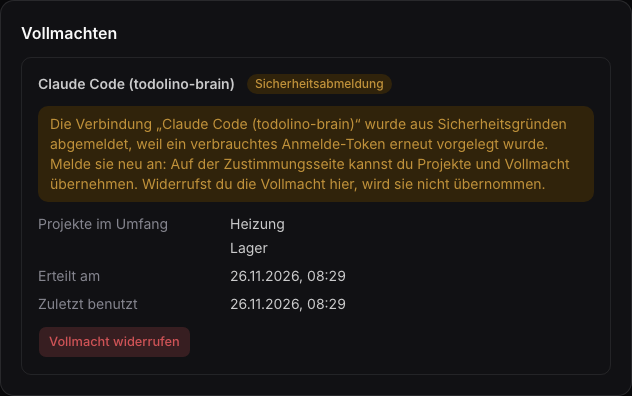
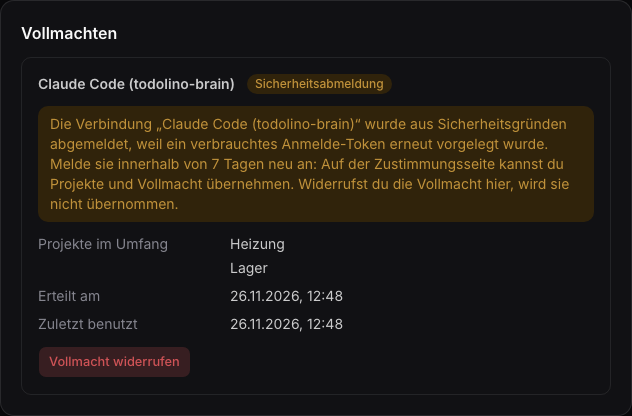
Karte BEF08998: Security-Review-Befunde behoben – Index und Schreiben per Primärschlüssel, Wiederholungsdeckel 5, Protokoll, 7-Tage-Angebot, kein Treffer beim Standardnamen, Vollmacht folgt der Auswahl (grün)
MariaDB 12.3: OAuth|BrainMandate|Connection|MariaDB|Migration 151 Tests, 1 übersprungen, 0 Fehler. SQLite gezielt 134 Tests, 5 übersprungen, 0 Fehler.
npm run check 0/0, vitest 799/799, build rc 0, Playwright mandate-relogin 7/7 in Chromium, Firefox, WebKit.
Handbuch 1.48.0, oauth-mcp.yaml 1.12.0, connections.yaml 1.7.0, ADR 0036 ergänzt.

diff --git a/Sources/TodoKit/OAuth/OAuthController.swift b/Sources/TodoKit/OAuth/OAuthController.swift
@@ -48,7 +48,7 @@ struct OAuthController: RouteCollection {
               b.token_endpoint_auth_method == nil || b.token_endpoint_auth_method == "none",
               Set(b.grant_types ?? ["authorization_code", "refresh_token"]).isSubset(of: ["authorization_code", "refresh_token"]),
               b.response_types == nil || b.response_types == ["code"] else { throw Abort(.badRequest, reason: "invalid_client_metadata") }
-        let c = OAuthClient(name: b.client_name ?? "MCP Client", redirects: b.redirect_uris)
+        let c = OAuthClient(name: b.client_name ?? OAuthClient.defaultName, redirects: b.redirect_uris)
         try await c.save(on: req.db)
         return try await JSONValue.object(["client_id": .string(try c.requireID().uuidString),
             "client_name": .string(c.name), "redirect_uris": .strings(c.redirects), "token_endpoint_auth_method": .string("none"),
@@ -230,40 +230,57 @@ struct OAuthController: RouteCollection {
         // Plain lookup first, then lock before the transaction's first read (see consent()).
         guard let found = try await OAuthSecret.query(on: req.db).filter(\.$hash == AuthSupport.hash(raw)).first(),
               let gid = found.grantID else { return try await tokenError(req) }
-        let result: JSONValue? = try await req.db.transaction { db in
-            try await lockRow(table: OAuthGrant.schema, id: gid, on: db)
-            guard let s = try await OAuthSecret.find(found.id, on: db),
-                  let g = try await OAuthGrant.find(gid, on: db), !g.revoked,
-                  g.clientID == b.client_id, g.resource == b.resource,
-                  s.kind == (b.grant_type == "authorization_code" ? "code" : "refresh") else { return nil }
-            // ADR 0036: a used secret revokes the connection unless it is the just rotated refresh token coming again.
-            let now = Date(), repeated = s.consumed
-            if repeated {
-                guard try await OAuthRotation.mayRepeat(s, now: now, on: db) else {
-                    g.revoke(.replay, now: now); try await g.save(on: db); return nil
+        // Protocol after the transaction, without any token value (ADR 0036, security review 26.11.2026).
+        let logger = req.application.logger
+        let outcome: (json: JSONValue?, repeated: Int?, replay: String?) = try await req.db.transaction { db in
+            var event: (repeated: Int?, replay: String?) = (nil, nil)
+            let json: JSONValue? = try await { () async throws -> JSONValue? in
+                try await lockRow(table: OAuthGrant.schema, id: gid, on: db)
+                guard let s = try await OAuthSecret.find(found.id, on: db),
+                      let g = try await OAuthGrant.find(gid, on: db), !g.revoked,
+                      g.clientID == b.client_id, g.resource == b.resource,
+                      s.kind == (b.grant_type == "authorization_code" ? "code" : "refresh") else { return nil }
+                // ADR 0036: a used secret revokes the connection unless it is the just rotated refresh token coming again.
+                let now = Date(), repeated = s.consumed
+                if repeated {
+                    switch try await OAuthRotation.judgeRepeat(s, now: now, on: db) {
+                    case .allowed(let n): event.repeated = n
+                    case .replay(let why):
+                        g.revoke(.replay, now: now); try await g.save(on: db)
+                        event.replay = why
+                        return nil
+                    }
                 }
-            }
-            guard s.expiresAt > now else { return nil }
-            if s.kind == "code" {
-                let a = try JSONDecoder().decode(Authorization.self, from: Data(s.payload.utf8))
-                guard let v = b.code_verifier, (43...128).contains(v.count),
-                      v.allSatisfy({ $0.isASCII && ($0.isLetter || $0.isNumber || "-._~".contains($0)) }),
-                      b.redirect_uri == a.redirect_uri,
-                      AuthSupport.constantTimeEquals(Data(SHA256.hash(data: Data(v.utf8))).base64EncodedString().replacingOccurrences(of: "+", with: "-").replacingOccurrences(of: "/", with: "_").replacingOccurrences(of: "=", with: ""), a.code_challenge)
-                else { return nil }
-            }
-            if let scope = b.scope, Set(scope.split(separator: " ").map(String.init)) != Set(g.scopes) { return nil }
-            if !repeated {
-                s.consumed = true; s.consumedAt = now; try await s.save(on: db)
-                try await OAuthRotation.retireSiblings(of: s, on: db)
-            }
-            let access = AuthSupport.randomToken(), refresh = AuthSupport.randomToken()
-            try await OAuthSecret(raw: access, kind: "access", grantID: gid, lifetime: 900).save(on: db)
-            let next = OAuthSecret(raw: refresh, kind: "refresh", grantID: gid, lifetime: 30 * 86400)
-            if s.kind == "refresh" { next.rotatedFrom = try s.requireID() }
-            try await next.save(on: db)
-            return .object(["access_token": .string(access), "refresh_token": .string(refresh), "token_type": .string("Bearer"),
-                            "expires_in": .number(900), "scope": .string(g.scopes.joined(separator: " "))])
+                guard s.expiresAt > now else { return nil }
+                if s.kind == "code" {
+                    let a = try JSONDecoder().decode(Authorization.self, from: Data(s.payload.utf8))
+                    guard let v = b.code_verifier, (43...128).contains(v.count),
+                          v.allSatisfy({ $0.isASCII && ($0.isLetter || $0.isNumber || "-._~".contains($0)) }),
+                          b.redirect_uri == a.redirect_uri,
+                          AuthSupport.constantTimeEquals(Data(SHA256.hash(data: Data(v.utf8))).base64EncodedString().replacingOccurrences(of: "+", with: "-").replacingOccurrences(of: "/", with: "_").replacingOccurrences(of: "=", with: ""), a.code_challenge)
+                    else { return nil }
+                }
+                if let scope = b.scope, Set(scope.split(separator: " ").map(String.init)) != Set(g.scopes) { return nil }
+                if !repeated {
+                    s.consumed = true; s.consumedAt = now; try await s.save(on: db)
+                    try await OAuthRotation.retireSiblings(of: s, on: db)
+                }
+                let access = AuthSupport.randomToken(), refresh = AuthSupport.randomToken()
+                try await OAuthSecret(raw: access, kind: "access", grantID: gid, lifetime: 900).save(on: db)
+                let next = OAuthSecret(raw: refresh, kind: "refresh", grantID: gid, lifetime: 30 * 86400)
+                if s.kind == "refresh" { next.rotatedFrom = try s.requireID() }
+                try await next.save(on: db)
+                return .object(["access_token": .string(access), "refresh_token": .string(refresh), "token_type": .string("Bearer"),
+                                "expires_in": .number(900), "scope": .string(g.scopes.joined(separator: " "))])
+            }()
+            return (json, event.repeated, event.replay)
+        }
+        let result = outcome.json, event = (repeated: outcome.repeated, replay: outcome.replay)
+        let meta: Logger.Metadata = ["grant": .string(gid.uuidString), "client": .string(b.client_id.uuidString), "secret": .string(found.id?.uuidString ?? "")]
+        if let why = event.replay {
+            logger.warning("oauth.replay_revoked", metadata: meta.merging(["reason": .string(why)]) { $1 })
+        } else if let n = event.repeated, result != nil {
+            logger.notice("oauth.refresh_repeated", metadata: meta.merging(["repeat": .stringConvertible(n), "max": .stringConvertible(OAuthRotation.maxRepeats)]) { $1 })
         }
         guard let result else { return try await tokenError(req) }
         let response = try await result.encodeResponse(for: req)

diff --git a/Sources/TodoKit/OAuth/OAuthTakeover.swift b/Sources/TodoKit/OAuth/OAuthTakeover.swift
@@ -13,7 +13,8 @@ enum OAuthTakeover {
     struct Candidate {
         let grant: OAuthGrant
         let match: Match
-        /// Projects of the old connection the person can read now.
+        /// What the consent page preselects: the projects of the old connection plus the mandate projects missing from that
+        /// list (so nothing of the mandate is lost or moves along unseen), each readable by the person now.
         let projects: [Project]
         /// The mandate of the old connection that the person has not revoked, limited to projects readable now.
         let mandate: BrainMandate?
@@ -26,13 +27,20 @@ enum OAuthTakeover {
     /// What the consent page showed; kept server side with the consent token, so a click never hands over more than that.
     struct Offer: Codable { var grantID: UUID; var mandateProjects: [UUID] }
 
+    /// A connection signed out by replay detection stays on offer this long after the revocation (security review 26.11.2026).
+    static let offerPeriod: TimeInterval = 7 * 86_400
+
     /// Only connections that are alive or were ended by replay detection qualify. Revoked by the person, replaced, locked
     /// account or an unknown cause never do. Several matches mean: nothing.
-    static func find(user: User, client: OAuthClient, redirect: String, resource: String, on db: any Database) async throws -> Found {
+    static func find(user: User, client: OAuthClient, redirect: String, resource: String, now: Date = Date(), on db: any Database) async throws -> Found {
         guard !user.isLocked else { return .none }
         let userID = try user.requireID(), clientID = try client.requireID()
         let grants = try await OAuthGrant.query(on: db).filter(\.$userID == userID).filter(\.$resource == resource).all()
-            .filter { !$0.revoked || $0.revokedReason == OAuthRevocation.replay.rawValue }
+            .filter { g in
+                guard g.revoked else { return true }
+                guard g.revokedReason == OAuthRevocation.replay.rawValue, let at = g.revokedAt else { return false }
+                return now.timeIntervalSince(at) <= offerPeriod
+            }
         guard !grants.isEmpty else { return .none }
         let clients = Dictionary(uniqueKeysWithValues: try await OAuthClient.query(on: db).filter(\.$id ~~ Set(grants.map(\.clientID))).all()
             .compactMap { c in c.id.map { ($0, c) } })
@@ -41,18 +49,19 @@ enum OAuthTakeover {
         let mandates = try await BrainMandate.query(on: db).filter(\.$userID == userID).filter(\.$revokedAt == .null).all()
 
         func candidate(_ grant: OAuthGrant, _ match: Match) -> Candidate? {
-            let projects = grant.projects.compactMap { readable[$0] }
             let mandate = mandates.first { $0.grantID == grant.id }
             // By name: the consent page lists these as text.
             let covered = (mandate?.projects ?? []).compactMap { readable[$0] }.sorted { $0.name.lowercased() < $1.name.lowercased() }
+            let listed = Set(grant.projects)
+            let projects = grant.projects.compactMap { readable[$0] } + covered.filter { $0.id.map { !listed.contains($0) } ?? false }
             guard !projects.isEmpty || !covered.isEmpty else { return nil }
             return Candidate(grant: grant, match: match, projects: projects, mandate: covered.isEmpty ? nil : mandate,
                              mandateProjects: covered, name: ConnectionNames.display(grant, clientName: clients[grant.clientID]?.name))
         }
         var matches = grants.filter { $0.clientID == clientID }.compactMap { candidate($0, .client) }
         // By name: client names are free to choose in open registration, so only between loopback clients and only for a
-        // connection that is dead anyway (never replacing a working one).
-        if matches.isEmpty, isLoopback(redirect) {
+        // connection that is dead anyway (never replacing a working one). The name every unnamed client gets proves nothing.
+        if matches.isEmpty, isLoopback(redirect), isDistinctive(client.name) {
             matches = grants.filter { grant in
                 guard grant.revoked, let old = clients[grant.clientID], old.name == client.name else { return false }
                 return !old.redirects.isEmpty && old.redirects.allSatisfy(isLoopback)
@@ -60,6 +69,11 @@ enum OAuthTakeover {
         }
         guard let first = matches.first else { return .none }
         return matches.count == 1 ? .one(first) : .ambiguous
+    }
+
+    static func isDistinctive(_ clientName: String) -> Bool {
+        let name = clientName.trimmingCharacters(in: .whitespacesAndNewlines)
+        return !name.isEmpty && name.caseInsensitiveCompare(OAuthClient.defaultName) != .orderedSame
     }
 
     static func isLoopback(_ redirect: String) -> Bool {
@@ -75,9 +89,9 @@ enum OAuthTakeover {
         old.revoke(.superseded, now: now); try await old.save(on: db)
 
         let chosen = Set(new.projects)
-        // A project the person unchecked leaves the mandate as well.
-        let unchecked = Set(old.projects).subtracting(chosen)
-        let carried = Set(candidate.mandateProjects.compactMap(\.id)).intersection(offer.mandateProjects).subtracting(unchecked)
+        // Only what the person confirmed in the project list keeps the mandate (also mandate projects that were not in the
+        // old list: the page preselects them, unchecking them drops them).
+        let carried = Set(candidate.mandateProjects.compactMap(\.id)).intersection(offer.mandateProjects).intersection(chosen)
             .sorted { $0.uuidString < $1.uuidString }
         var mandateID: UUID?
         if !carried.isEmpty {
@@ -86,7 +100,9 @@ enum OAuthTakeover {
             mandateID = try mandate.requireID()
         }
         let note = "Bei der Neuanmeldung auf der Zustimmungsseite bestätigt: Übernahme von „\(candidate.name)“."
-        let accessOnly = chosen.intersection(old.projects).subtracting(carried).sorted { $0.uuidString < $1.uuidString }
+        var accessOnly = chosen.intersection(old.projects).subtracting(carried).sorted { $0.uuidString < $1.uuidString }
+        // Nothing in common: still one row, naming the earlier connection where a project would stand.
+        if carried.isEmpty, accessOnly.isEmpty { accessOnly = [oldID] }
         for (kind, projects) in [("mandate.taken_over", carried), ("connection.taken_over", accessOnly)] {
             for projectID in projects {
                 let row = BrainConnectionAudit()

diff --git a/Sources/TodoKit/OAuth/OAuthRotation.swift b/Sources/TodoKit/OAuth/OAuthRotation.swift
@@ -5,23 +5,44 @@ import Foundation
 /// token store not written, two processes sharing one sign-in) sends the previous token again; that is not treated as theft
 /// as long as nobody has used any of its successors. Everything else stays a replay and revokes the whole connection
 /// (RFC 9700, section 4.14.2). All calls run under the row lock of the grant.
+///
+/// MariaDB: every statement here reads through the index on `rotated_from` and writes only by primary key. A write filtered
+/// by a non-indexed column locks every scanned row of `oauth_secrets` and makes rotations of unrelated connections deadlock
+/// (security review 26.11.2026).
 enum OAuthRotation {
     /// Counted from the first use of the token; a repeat never extends it. Matches the margin in which MCP clients refresh
     /// before the 15 minute access token ends.
     static let reuseWindow: TimeInterval = 300
+    /// Repeats of one token within the window. A lost answer needs one or two; more means someone keeps a stale copy.
+    static let maxRepeats = 5
 
-    static func mayRepeat(_ secret: OAuthSecret, now: Date, on db: any Database) async throws -> Bool {
-        guard secret.kind == "refresh", secret.expiresAt > now, let used = secret.consumedAt,
-              now.timeIntervalSince(used) <= reuseWindow else { return false }
-        return try await OAuthSecret.query(on: db).filter(\.$rotatedFrom == secret.requireID())
-            .filter(\.$consumed == true).count() == 0
+    enum Repeat: Equatable {
+        /// Number of this repeat (1 for the first one).
+        case allowed(Int)
+        case replay(String)
+    }
+
+    /// Judges a consumed token that comes again. `replay` carries the reason for the protocol.
+    static func judgeRepeat(_ secret: OAuthSecret, now: Date, on db: any Database) async throws -> Repeat {
+        guard secret.kind == "refresh" else { return .replay("not_refresh") }
+        guard let used = secret.consumedAt, secret.expiresAt > now else { return .replay("no_window") }
+        guard now.timeIntervalSince(used) <= reuseWindow else { return .replay("window_over") }
+        let successors = try await OAuthSecret.query(on: db).filter(\.$rotatedFrom == secret.requireID()).all()
+        guard !successors.contains(where: \.consumed) else { return .replay("successor_used") }
+        // The first use made one successor; each repeat one more.
+        let repeats = successors.count
+        guard repeats <= maxRepeats else { return .replay("repeat_limit") }
+        return .allowed(repeats)
     }
 
     /// First use of a refresh token: the other tokens issued for the same predecessor die. Presenting one of them later is
     /// a replay (two holders of the same sign-in have diverged).
     static func retireSiblings(of secret: OAuthSecret, on db: any Database) async throws {
         guard secret.kind == "refresh", let parent = secret.rotatedFrom else { return }
-        try await OAuthSecret.query(on: db).filter(\.$rotatedFrom == parent).filter(\.$id != secret.requireID())
-            .filter(\.$consumed == false).set(\.$consumed, to: true).update()
+        let ownID = try secret.requireID()
+        let siblings = try await OAuthSecret.query(on: db).filter(\.$rotatedFrom == parent).all()
+            .filter { !$0.consumed }.compactMap(\.id).filter { $0 != ownID }
+        guard !siblings.isEmpty else { return }
+        try await OAuthSecret.query(on: db).filter(\.$id ~~ siblings).set(\.$consumed, to: true).update()
     }
 }

diff --git a/Sources/TodoKit/MCP/AgentManualContent.swift b/Sources/TodoKit/MCP/AgentManualContent.swift
@@ -1,7 +1,7 @@
 // Generated by scripts/embed-agent-manual.sh from docs/agent-manual.md. Do not edit.
 enum AgentManualContent {
     static let text = #"""
-<!-- manual-version: 1.47.0 -->
+<!-- manual-version: 1.48.0 -->
 # Todolino agent manual
 
 This manual is written for coding agents (Claude Code and others) that work for a person through the Todolino MCP server. It is served by the MCP tool `get_manual`, the MCP resource `todo://manual` and `GET /v1/manual`. Fetch it once at the start of a session and re-read the section you need when unsure. The manual is versioned (see the first line); `get_manual` returns the version and a structured `conventions` object.
@@ -400,6 +400,8 @@ Resources: `todo://manual` (this manual, Markdown), `todo://conventions` (JSON),
 **Scopes added in 1.6.0:** `labels:read`/`labels:write` and `filters:read`/`filters:write`. An existing connection does not get new scopes by itself: the person has to connect again and approve them. Labels and filters are private to the person; search and filter results only contain projects of this connection.
 
 **Changed in 1.47.0:** sign-in survives and the brain mandate can be taken over (card BEF08998, ADR 0036, `oauth-mcp.yaml` 1.11.0, `connections.yaml` 1.6.0), no new tool, parameter or scope. (1) A refresh token that was just rotated may be sent again for 300 seconds as long as none of its successors was used (lost response, token store not written, two processes with one sign-in); you get a fresh pair. Store the newest `refresh_token` of every answer. Sending a used refresh token later, or after a successor was used, still ends the whole connection (`invalid_grant`). (2) When the person signs the same client in again, the consent page may offer to take over the project list and the brain mandate of the earlier connection; only the person can accept it there, there is no MCP way. The new connection has a new grant id and its own scopes. Requests of the earlier connection still count as yours: `cannot_decide_own_review`, `cannot_answer_own_question`, `cannot_decide_own_plan`. After a new sign-in call `get_connection` to see whether `brainMandate.active` is true.
+
+**Changed in 1.48.0:** limits of the reuse window and of the takeover (security review of card BEF08998, ADR 0036, `oauth-mcp.yaml` 1.12.0, `connections.yaml` 1.7.0), no new tool, parameter or scope. A refresh token may be repeated at most 5 times within its 300 seconds; the sixth repeat ends the whole connection like a replay. A connection ended by replay detection is offered for takeover only for 7 days. Clients that registered without a `client_name` are never matched by name. The consent page lists everything the mandate allows and preselects its projects; projects the person unchecks leave the mandate.
 
 **Changed in 1.46.0:** `get_overview_now` (and REST `GET /v1/overview/now`) gains one optional field in the full answer, additive and without scope changes (card B0CF5F73, `contracts/session-status.yaml` 1.5.0): `projects[].builds[].id` (UUID), the id of the build artifact (one screenshot). Several artifacts of one build, on one card or on several cards of a project, share `buildID`, `label` and `platform`, so `buildID` is not a unique key for a list; use `id` for that. Old servers do not send it. All else unchanged.
 

diff --git a/web/src/lib/i18n/de-brain-mandate.ts b/web/src/lib/i18n/de-brain-mandate.ts
@@ -4,7 +4,7 @@ export const deBrainMandate = {
 	'settings.brain-vollmacht.description': 'Welche deiner Verbindungen in deinem Auftrag Reviews, Fragen und Pläne entscheiden darf, je Verbindung mit eigener Projektliste.',
 
 	'brainMandate.page': 'Brain-Vollmacht verwalten',
-	'brainMandate.intro.allows': 'Mit einer Vollmacht darf eine deiner Verbindungen, zum Beispiel das Brain oder Codex, in deinem Auftrag Reviews entscheiden, Fragen beantworten und Pläne freigeben oder Änderungen daran verlangen. Jede Verbindung bekommt ihre eigene Vollmacht mit eigener Projektliste und lässt sich einzeln widerrufen. Entschieden wird nur mit einem Pflichtzitat deiner eigenen Worte; im Verlauf steht jede Entscheidung als „Brain im Auftrag von {name}“.',
+	'brainMandate.intro.allows': 'Mit einer Vollmacht darf eine deiner Verbindungen, zum Beispiel das Brain oder Codex, in deinem Auftrag Reviews entscheiden, Fragen beantworten, Pläne freigeben oder Änderungen daran verlangen, die Pipeline-Einstellungen ändern und die Projekte der Vollmacht für deine anderen Verbindungen freigeben oder entziehen. Jede Verbindung bekommt ihre eigene Vollmacht mit eigener Projektliste und lässt sich einzeln widerrufen. Entschieden wird nur mit einem Pflichtzitat deiner eigenen Worte; im Verlauf steht jede Entscheidung als „Brain im Auftrag von {name}“.',
 	'brainMandate.intro.limits': 'Nicht erlaubt: Die Vollmacht gilt nur für die Projekte, die du ausdrücklich wählst, nicht für deren Unterprojekte, und nie für Reviews oder Fragen, die die Verbindung selbst gestellt hat, und nie für Pläne, die sie selbst geschrieben hat. Eine Verbindung ohne eigene Vollmacht kann keine fremden Reviews, Fragen oder Pläne entscheiden.',
 	'brainMandate.loadFailed': 'Die Vollmacht konnte nicht geladen werden.',
 	'brainMandate.retry': 'Erneut versuchen',
@@ -29,7 +29,7 @@ export const deBrainMandate = {
 	'brainMandate.status.revoked': 'Widerrufen',
 	'brainMandate.status.grantRevoked': 'Verbindung widerrufen, Vollmacht wirkungslos',
 	'brainMandate.status.recoverable': 'Sicherheitsabmeldung',
-	'brainMandate.status.recoverable.text': 'Die Verbindung „{name}“ wurde aus Sicherheitsgründen abgemeldet, weil ein verbrauchtes Anmelde-Token erneut vorgelegt wurde. Melde sie neu an: Auf der Zustimmungsseite kannst du Projekte und Vollmacht übernehmen. Widerrufst du die Vollmacht hier, wird sie nicht übernommen.',
+	'brainMandate.status.recoverable.text': 'Die Verbindung „{name}“ wurde aus Sicherheitsgründen abgemeldet, weil ein verbrauchtes Anmelde-Token erneut vorgelegt wurde. Melde sie innerhalb von 7 Tagen neu an: Auf der Zustimmungsseite kannst du Projekte und Vollmacht übernehmen. Widerrufst du die Vollmacht hier, wird sie nicht übernommen.',
 	'brainMandate.current.takenOver': 'Übernommen von „{name}“ bei der Neuanmeldung am {when}.',
 	'brainMandate.audit.kind.takenOver': 'Vollmacht übernommen',
 	'brainMandate.audit.kind.accessTakenOver': 'Projektzugriff übernommen',

diff --git a/Sources/TodoKit/OAuth/OAuthMigration.swift b/Sources/TodoKit/OAuth/OAuthMigration.swift
@@ -24,6 +24,8 @@ struct AddOAuthReuseAndRevocation: AsyncMigration {
         for (table, field, type) in Self.columns { try await db.schema(table).field(field, type).update() }
     }
     func revert(on db: any Database) async throws {
+        // SQLite cannot drop an indexed column; the index belongs to `AddOAuthRotatedFromIndex`.
+        try await AddOAuthRotatedFromIndex.drop(on: db)
         for (table, field, _) in Self.columns { try await db.schema(table).deleteField(field).update() }
     }
 }
@@ -41,10 +43,25 @@ struct AddOAuthGrantLineage: AsyncMigration {
     }
 }
 
-/// Placeholder for the red step of the security review (26.11.2026); does nothing yet.
+/// Security review 26.11.2026 (ADR 0036): siblings are looked up by `rotated_from` inside the token transaction. Without an
+/// index MariaDB scans and locks the whole table there, so rotations of unrelated connections deadlock (ERROR 1213/1020).
+/// Separate migration and idempotent (`IF NOT EXISTS`), so databases that already ran `AddOAuthReuseAndRevocation` (dc842e3)
+/// get it as well as fresh ones and ones from before ADR 0036 (cf4237e).
 struct AddOAuthRotatedFromIndex: AsyncMigration {
-    func prepare(on db: any Database) async throws {}
-    func revert(on db: any Database) async throws {}
+    static let name = "oauth_secrets_rotated_from"
+    func prepare(on db: any Database) async throws {
+        guard let sql = db as? any SQLDatabase else { return }
+        try await sql.raw("CREATE INDEX IF NOT EXISTS \(ident: Self.name) ON \(ident: OAuthSecret.schema) (\(ident: "rotated_from"))").run()
+    }
+    func revert(on db: any Database) async throws { try await Self.drop(on: db) }
+    static func drop(on db: any Database) async throws {
+        guard let sql = db as? any SQLDatabase else { return }
+        if sql.dialect.name == "sqlite" {
+            try await sql.raw("DROP INDEX IF EXISTS \(ident: name)").run()
+        } else {
+            try await sql.raw("DROP INDEX IF EXISTS \(ident: name) ON \(ident: OAuthSecret.schema)").run()
+        }
+    }
 }
 
 struct CreateOAuthSchema: AsyncMigration {

diff --git a/Sources/TodoKit/OAuth/ConsentPage.swift b/Sources/TodoKit/OAuth/ConsentPage.swift
@@ -88,8 +88,9 @@ enum ConsentPage {
         el('p', (n === 1 ? '1 Projekt ist' : n + ' Projekte sind') + ' unten vorausgewählt. Die bisherige Verbindung „' + old.name + '“ wird dabei beendet.' + (old.reason === 'replay' ? ' Sie wurde zuvor aus Sicherheitsgründen abgemeldet.' : ''), tc, 'muted');
         if (old.mandate) {
           const m = old.mandate.project_names;
-          el('p', 'Brain-Vollmacht: Die neue Verbindung darf dann in deinem Auftrag entscheiden in ' + (m.length === 1 ? 'diesem Projekt' : 'diesen ' + m.length + ' Projekten') + ': ' + m.join(', ') + '.', tc, 'mandate');
-          el('p', 'Projekte, die du unten abwählst, fallen auch aus der Vollmacht.', tc, 'muted');
+          el('p', 'Brain-Vollmacht in ' + (m.length === 1 ? 'diesem Projekt' : 'diesen ' + m.length + ' Projekten') + ': ' + m.join(', ') + '.', tc, 'mandate');
+          el('p', 'Die neue Verbindung darf dort in deinem Auftrag Reviews entscheiden, Fragen beantworten, Pläne freigeben oder Änderungen verlangen, die Pipeline-Einstellungen ändern und diese Projekte für deine anderen Verbindungen freigeben oder entziehen.', tc, 'mandate');
+          el('p', 'Alle Vollmacht-Projekte sind unten vorausgewählt, auch solche, die bisher nicht freigegeben waren. Was du unten abwählst, fällt auch aus der Vollmacht.', tc, 'muted');
         }
         if (old.match === 'name') el('p', 'Achtung: Nur am gleichen Namen erkannt. Dieses Programm hat sich neu angemeldet, und Namen kann jedes Programm frei wählen. Übernimm nur, wenn du diese Anmeldung gerade selbst auf deinem Gerät gestartet hast.', tc, 'warning');
       } else if (d.takeover_ambiguous) {

diff --git a/web/tests/mandateTakeover.test.ts b/web/tests/mandateTakeover.test.ts
@@ -1,7 +1,7 @@
 import { describe, expect, it } from 'vitest';
 import type { OAuthGrant } from '../src/lib/api';
 import { de } from '../src/lib/i18n/de';
-import { auditKindKey, isTakeover, listedMandates, mandateStatus, type BrainMandate } from '../src/lib/brainMandate';
+import { auditKindKey, isTakeover, listedMandates, mandateStatus, takeoverWithoutProject, type BrainMandate } from '../src/lib/brainMandate';
 import { revocationKey } from '../src/lib/oauth';
 
 /** Card BEF08998 (ADR 0036): takeover after a new sign-in, as the settings pages show it. */
@@ -51,5 +51,13 @@ describe('why a connection is revoked', () => {
 		expect(de['brainMandate.current.takenOver']).toContain('{name}');
 		expect(de['brainMandate.status.recoverable.text']).toContain('{name}');
 		expect(de['account.oauth.revoked.replay.text']).toBeTruthy();
+	});
+});
+
+describe('takeover without a project in common', () => {
+	it('is recognised by the row naming the earlier connection instead of a project', () => {
+		expect(takeoverWithoutProject({ kind: 'connection.taken_over', projectID: 'AB12', subjectID: 'ab12' })).toBe(true);
+		expect(takeoverWithoutProject({ kind: 'connection.taken_over', projectID: 'P1', subjectID: 'G1' })).toBe(false);
+		expect(takeoverWithoutProject({ kind: 'connection.project_added', projectID: 'G1', subjectID: 'G1' })).toBe(false);
 	});
 });

diff --git a/web/src/lib/components/settings/BrainMandatePage.svelte b/web/src/lib/components/settings/BrainMandatePage.svelte
@@ -22,6 +22,7 @@
 		type BrainAuditItem,
 		type BrainMandate,
 		isTakeover,
+		takeoverWithoutProject,
 		listedMandates
 	} from '#lib/brainMandate.js';
 	import { describeError } from '#lib/errors.js';
@@ -478,7 +479,7 @@
 									<span class="text-muted-foreground text-xs">{formatWhen(a.createdAt)}</span>
 									<span class="text-muted-foreground text-xs" data-testid="bm-audit-via">{t('brainMandate.audit.via', { name: via })}</span>
 								</div>
-								<p class="text-muted-foreground text-xs break-words">{projectName(a.projectID)}{#if !a.taskID}{' · '}<span data-testid="bm-audit-target">{t(isTakeover(a.kind) ? 'brainMandate.audit.from' : 'brainMandate.audit.target', { name: nameOfGrant(a.subjectID) })}</span>{/if}</p>
+								<p class="text-muted-foreground text-xs break-words">{#if !takeoverWithoutProject(a)}{projectName(a.projectID)}{#if !a.taskID}{' · '}{/if}{/if}{#if !a.taskID}<span data-testid="bm-audit-target">{t(isTakeover(a.kind) ? 'brainMandate.audit.from' : 'brainMandate.audit.target', { name: nameOfGrant(a.subjectID) })}</span>{/if}</p>
 								{#if isTakeover(a.kind)}
 									<p class="break-words">{a.quote}</p>
 								{:else}

diff --git a/web/src/lib/i18n/de.ts b/web/src/lib/i18n/de.ts
@@ -467,7 +467,7 @@ export const de = {
 	'account.oauth.unknownProjects': '{count} nicht mehr sichtbar',
 	'account.oauth.revoked': 'Widerrufen',
 	'account.oauth.revoked.replay': 'Sicherheitsabmeldung',
-	'account.oauth.revoked.replay.text': 'Ein verbrauchtes Anmelde-Token wurde erneut vorgelegt, deshalb gilt keine Anmeldung dieser Verbindung mehr. Bei der nächsten Anmeldung desselben Programms kannst du Projekte und Vollmacht übernehmen.',
+	'account.oauth.revoked.replay.text': 'Ein verbrauchtes Anmelde-Token wurde erneut vorgelegt, deshalb gilt keine Anmeldung dieser Verbindung mehr. Meldest du dasselbe Programm innerhalb von 7 Tagen neu an, kannst du Projekte und Vollmacht übernehmen.',
 	'account.oauth.revoked.replay.end': 'Nicht übernehmen lassen',
 	'account.oauth.revoked.superseded': 'Durch Neuanmeldung ersetzt',
 	'account.oauth.revoke': 'Zugriff widerrufen',

diff --git a/web/e2e/mandate-relogin.spec.ts b/web/e2e/mandate-relogin.spec.ts
@@ -180,7 +180,8 @@ test('signing in again shows what moves before the click and takes it over', asy
 	const verifier = await openConsent(client);
 	const card = page.locator('#takeover');
 	await expect(card).toContainText('Projekte und Brain-Vollmacht von „' + CLIENT + '“ übernehmen');
-	await expect(card).toContainText('in diesen 2 Projekten: Heizung, Lager.');
+	await expect(card).toContainText('Brain-Vollmacht in diesen 2 Projekten: Heizung, Lager.');
+	await expect(card).toContainText('Pipeline-Einstellungen ändern und diese Projekte für deine anderen Verbindungen freigeben oder entziehen');
 	await expect(card).toContainText('aus Sicherheitsgründen abgemeldet');
 	await expect(card).not.toContainText('Nur am gleichen Namen erkannt');
 	const choice = card.getByRole('checkbox');

diff --git a/web/src/lib/brainMandate.ts b/web/src/lib/brainMandate.ts
@@ -55,6 +55,10 @@ export const listedMandates = (mandates: readonly BrainMandate[]) => mandates.fi
 /** Protocol entries of a takeover: their `quote` is a note of the server, `subjectID` the earlier connection. */
 export const isTakeover = (kind: string) => kind === 'mandate.taken_over' || kind === 'connection.taken_over';
 
+/** A takeover with no project in common and no mandate: the row names the earlier connection where a project would stand. */
+export const takeoverWithoutProject = (a: Pick<BrainAuditItem, 'kind' | 'projectID' | 'subjectID'>) =>
+	isTakeover(a.kind) && a.projectID.toLowerCase() === a.subjectID.toLowerCase();
+
 const key = (id: string) => id.toLowerCase();
 const sameID = (a: string, b: string) => key(a) === key(b);
 
